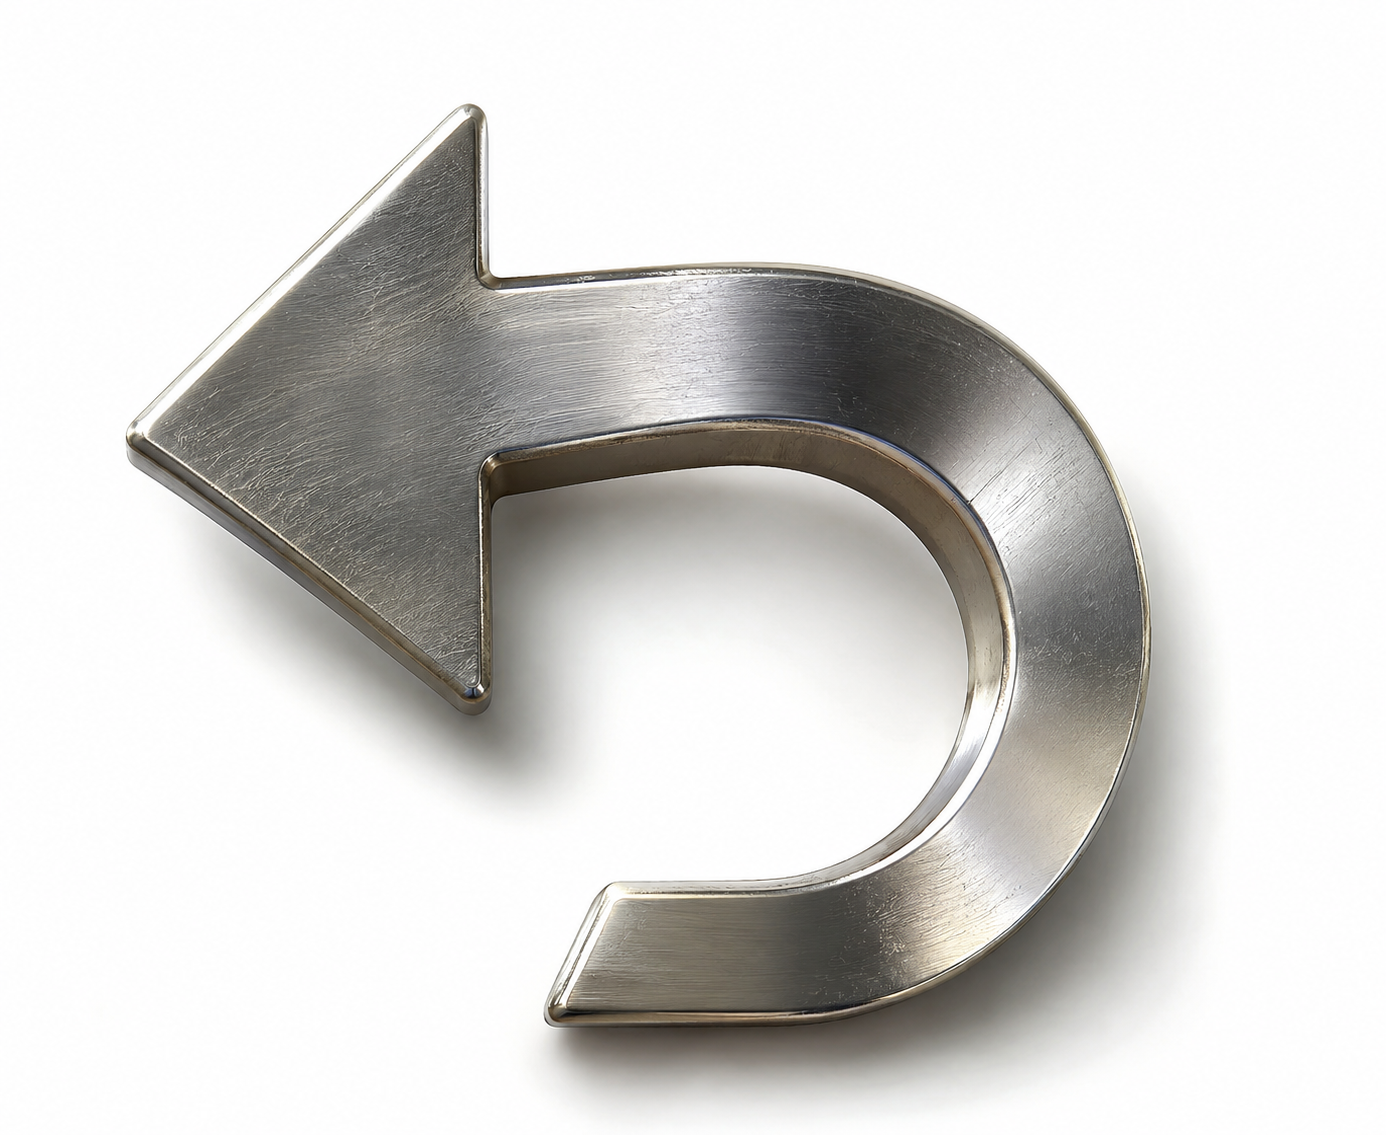
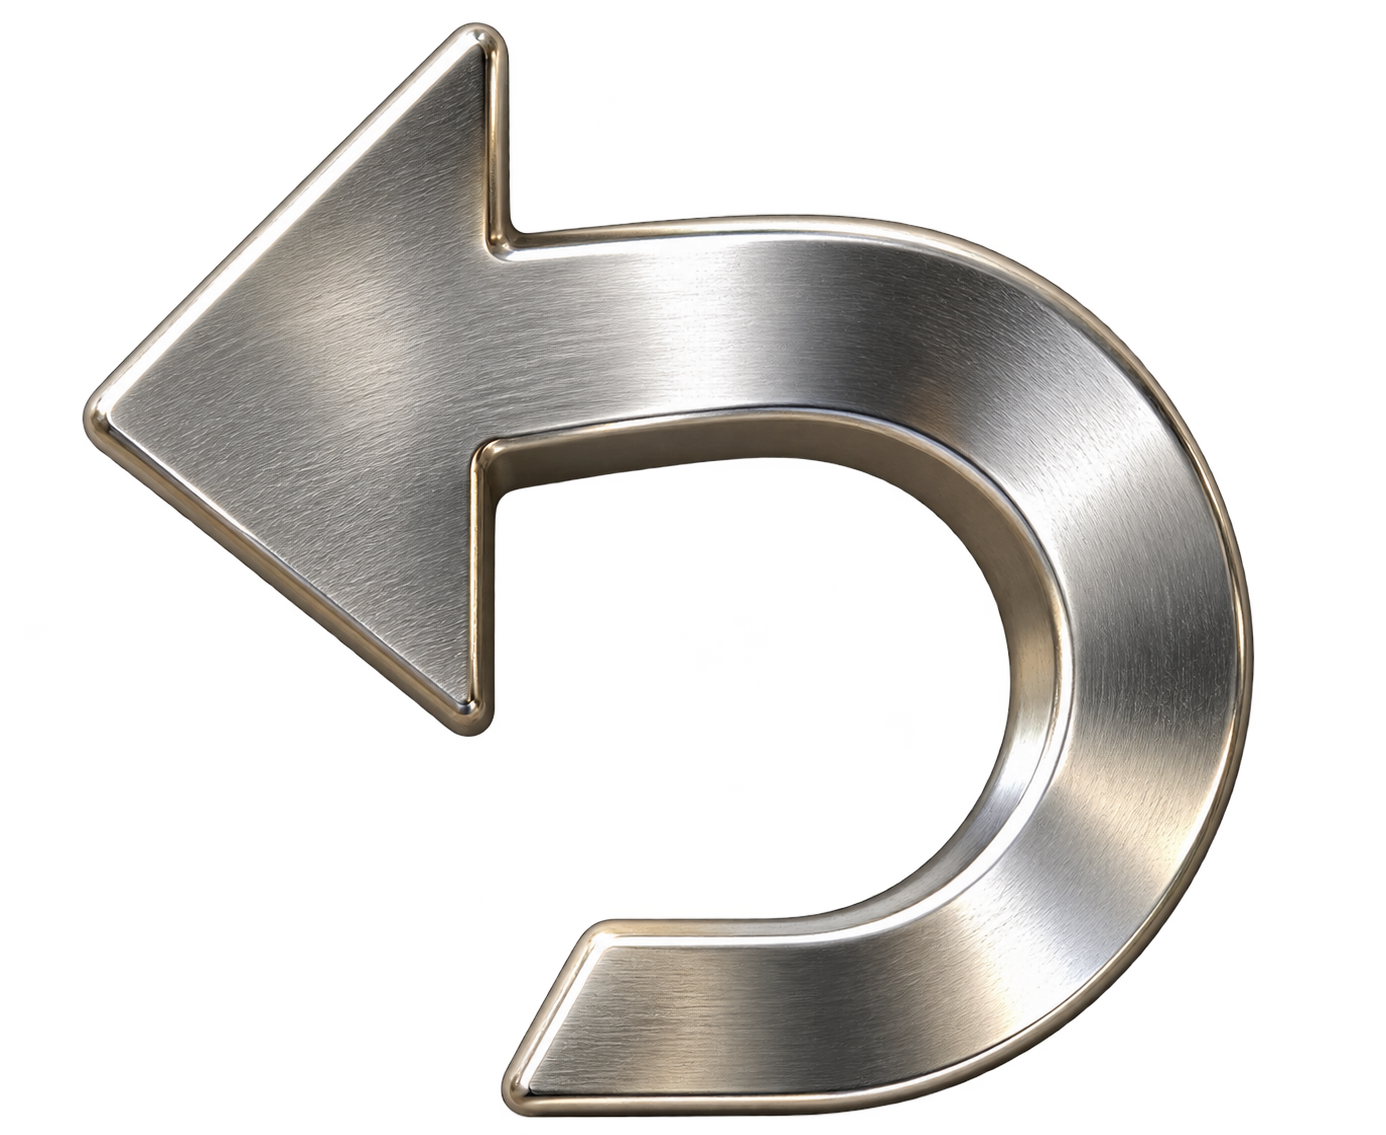
802: George's transparent Edit Path Nodes and Undo [skip ci]
Claude-Session: https://claude.ai/code/session_01SJtkDcFnNYFPbsfPPV9jyP

diff --git a/docs/krimble-icon-sets/photorealistic/README.md b/docs/krimble-icon-sets/photorealistic/README.md
@@ -61,7 +61,7 @@ toolbox (08_01 Undo, 08_02 Quick Mask, 08_03 Screen Mode). `09_xx` = future tool
 | 05_03_line.png | 23. Line |
 | 08_01_undo.png | 33. Undo (on white; cut out for the app copy) |
 
-The app copies keep George's own transparency: no aura or glow is added ("Just leave my alpha channel transparency alone!!"). They are George's files at full resolution, unchanged ("And leave them at FULL RESOLUTION. NO SCALING DOWN"). Undo and Edit Path Nodes arrived on solid white with no transparency; their app copies have the white cut out, full size.
+The app copies keep George's own transparency: no aura or glow is added ("Just leave my alpha channel transparency alone!!"). They are George's files at full resolution, unchanged ("And leave them at FULL RESOLUTION. NO SCALING DOWN"). Undo and Edit Path Nodes were replaced at 12:55 with George's own transparent versions.
 
 | 07_02_edit_path_nodes.png | 32. Edit Path Nodes (pen drawing a blue path with nodes, received 12:38; on white, cut out for the app copy; replaces the dashed square) |
 

diff --git a/KRIMBLE_CONVERSATION_LOG.md b/KRIMBLE_CONVERSATION_LOG.md
@@ -283,3 +283,4 @@ What was lost: the screenshots George sent during the day were not saved anywher
 - **12:51:** "The glow makes them look very artificial."
 - **12:52:** "Just leave my alpha channel transparency alone!!" (aura removed from Line and Text; app copies are only cropped and scaled)
 - **12:52:** "And leave them at FULL RESOLUTION. NO SCALING DOWN LIKE I TOLD YOU BEFORE WITH WESNOTH." (app copies replaced with his full-resolution files; rule added to KRIMBLE_DESIGN_RULES.md)
+- **12:55:** (2 images) transparent versions of Edit Path Nodes and Undo; used as delivered in the set and the app
